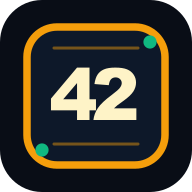
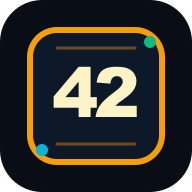
fix(theme): bind Galactic assets to portal shell AB#6167

diff --git a/app/layout.tsx b/app/layout.tsx
@@ -1,4 +1,5 @@
 import type { Metadata, Viewport } from "next";
+import config from "../project42.config.json";
 import "./globals.css";
 import { SiteFooter } from "./components/SiteFooter";
 import { SiteHeader } from "./components/SiteHeader";
@@ -6,6 +7,10 @@ import { ProgressProvider } from "./components/ProgressProvider";
 import { AuthProvider } from "./components/AuthProvider";
 import { ProfilePreferencesProvider } from "./components/ProfilePreferencesProvider";
 import { CanonicalOriginEnforcer } from "./components/CanonicalOriginEnforcer";
+
+const configuredTheme = config.theme || "06-galactic-guide";
+const configuredLayout = config.layout.defaultPreset || "standard";
+const configuredFaviconUrl = config.organization.faviconUrl;
 
 export const metadata: Metadata = {
   metadataBase: new URL("https://project-42.dev"),
@@ -20,21 +25,11 @@ export const metadata: Metadata = {
   icons: {
     icon: [
       {
-        url: "/brand/project-42-app-icon.svg",
+        url: configuredFaviconUrl,
         type: "image/svg+xml",
       },
-      {
-        url: "/favicon-32x32.png",
-        sizes: "32x32",
-        type: "image/png",
-      },
-      {
-        url: "/favicon-16x16.png",
-        sizes: "16x16",
-        type: "image/png",
-      },
     ],
-    shortcut: "/favicon.ico",
+    shortcut: configuredFaviconUrl,
     apple: [
       {
         url: "/apple-touch-icon.png",
@@ -83,16 +78,12 @@ export const metadata: Metadata = {
   },
 };
 
-import config from "../project42.config.json";
-
 export const viewport: Viewport = {
   colorScheme: "dark light",
   themeColor: "#090d16",
 };
 
 export default function RootLayout({ children }: Readonly<{ children: React.ReactNode }>) {
-  const configuredTheme = config?.theme || "06-galactic-guide";
-  const configuredLayout = config?.layout?.defaultPreset || "standard";
   return (
     <html lang="en" data-theme={configuredTheme} data-layout={configuredLayout} suppressHydrationWarning>
       <head>

diff --git a/app/globals.css b/app/globals.css
@@ -8664,11 +8664,24 @@ html[data-theme="06-galactic-guide"] .text-link {
 }
 
 html[data-theme="06-galactic-guide"] .path-card::after {
-  background: #10b981;
+  content: none;
 }
 
-html[data-theme="06-galactic-guide"] .path-card:nth-child(2)::after {
-  background: #f59e0b;
+/* The Learn shell predates declarative themes. Replace its default orbit art
+   with the selected Galactic bundle artwork without changing page content. */
+html[data-theme="06-galactic-guide"] .hero-map {
+  aspect-ratio: 16 / 9;
+  background: url("/themes/06-galactic-guide/hero.png") center / cover no-repeat;
+  border: 1px solid rgba(245, 158, 11, 0.45);
+  border-radius: 18px;
+  box-shadow: 0 24px 56px rgba(0, 0, 0, 0.38);
+  max-width: 640px;
+}
+
+html[data-theme="06-galactic-guide"] .hero-map::before,
+html[data-theme="06-galactic-guide"] .hero-map > * {
+  opacity: 0;
+  pointer-events: none;
 }
 
 html[data-theme="06-galactic-guide"] .card-index,
@@ -8898,6 +8911,16 @@ html[data-theme="06-galactic-guide"] .diagram-viewer-controls output {
 html[data-theme="06-galactic-guide"] .site-footer {
   background: #080c14 !important;
   border-top-color: rgba(245, 158, 11, 0.2) !important;
+}
+
+html[data-theme="06-galactic-guide"] .footer-grid > div:not(:first-child) {
+  gap: 0.2rem;
+}
+
+html[data-theme="06-galactic-guide"] .footer-grid a {
+  line-height: 1.35;
+  min-height: 0;
+  padding-block: 0.2rem;
 }
 
 @media (max-width: 840px) {

diff --git a/tests/browser/brand.spec.ts b/tests/browser/brand.spec.ts
@@ -16,7 +16,11 @@ test("publishes visible accessible branding and complete icon assets", async ({
   await expect(page.locator("svg.brand-mark")).toHaveCount(2);
   await expect(
     page.locator('link[rel="icon"][type="image/svg+xml"]'),
-  ).toHaveAttribute("href", "/brand/project-42-app-icon.svg");
+  ).toHaveAttribute("href", "/themes/06-galactic-guide/mark.svg");
+  await expect(page.locator('link[rel="shortcut icon"]')).toHaveAttribute(
+    "href",
+    "/themes/06-galactic-guide/mark.svg",
+  );
 
   const iconAssets = [
     ["/brand/project-42-mark.svg", "image/svg+xml"],
@@ -52,12 +56,12 @@ test("publishes visible accessible branding and complete icon assets", async ({
   expect(manifest.background_color).toBe("#090d16");
   expect(manifest.icons).toHaveLength(3);
 
-  const appIconResponse = await request.get("/brand/project-42-app-icon.svg");
+  const appIconResponse = await request.get("/themes/06-galactic-guide/mark.svg");
   const appIcon = await appIconResponse.text();
   expect(appIcon).toContain("#090d16");
   expect(appIcon).toContain("#f59e0b");
   expect(appIcon).toContain("#fef3c7");
-  expect(appIcon).not.toMatch(/#(?:c9f25f|63d7e4)/i);
+  expect(appIcon).toContain("Project 42 Galactic Guide concept mark");
 
   const accessibility = await new AxeBuilder({ page })
     .withTags(["wcag2a", "wcag2aa", "wcag21a", "wcag21aa", "wcag22aa"])

diff --git a/tests/browser/galactic-conformance.spec.ts b/tests/browser/galactic-conformance.spec.ts
@@ -53,6 +53,34 @@ test("routes Learn to the landing page and keeps the path catalog distinct", asy
   );
 });
 
+test("uses only Galactic artwork and compact shell treatments on Learn", async ({
+  page,
+}) => {
+  for (const viewport of [
+    { width: 1440, height: 1000 },
+    { width: 390, height: 844 },
+  ]) {
+    await page.setViewportSize(viewport);
+    await page.goto("/learn");
+
+    const hero = page.locator(".hero-map");
+    await expect(hero).toHaveCSS(
+      "background-image",
+      /\/themes\/06-galactic-guide\/hero\.png/,
+    );
+    await expect(hero.locator(":scope > *").first()).toHaveCSS("opacity", "0");
+
+    const decorations = await page.locator(".path-card").evaluateAll((cards) =>
+      cards.map((card) => getComputedStyle(card, "::after").content),
+    );
+    expect(decorations).toEqual(decorations.map(() => "none"));
+
+    const footerLink = page.locator(".footer-grid > div:nth-child(2) a").first();
+    await expect(footerLink).toHaveCSS("min-height", "0px");
+    expect(await footerLink.evaluate((link) => link.getBoundingClientRect().height)).toBeLessThan(32);
+  }
+});
+
 const protectedRouteFamilies = [
   "/profile",
   "/import-progress",

diff --git a/public/brand/README.md b/public/brand/README.md
@@ -21,13 +21,15 @@ Apache-2.0 with the application code.
 | `project-42-mark.svg` | Full-color transparent mark |
 | `project-42-mark-mono.svg` | One-color light-background treatment |
 | `project-42-mark-reversed.svg` | One-color dark-background treatment |
-| `project-42-app-icon.svg` | Master for favicon, bookmark, Apple, and web-app exports |
-| `project-42-maskable-icon.svg` | Full-bleed safe-zone master for maskable web-app export |
 | `project-42-wordmark.svg` | Horizontal mark and name |
 | `project-42-social.svg` | Editable social-preview master |
 | `asset-manifest.json` | Source and generated-file integrity record |
 
-Run `npm run brand:generate` after changing either raster master. CI runs
+The active theme's `organization.faviconUrl` in `project42.config.json` is the
+single source for favicon, bookmark, Apple, and web-app exports. For Galactic,
+that is `public/themes/06-galactic-guide/mark.svg`, the same mark published by
+the Theme Gallery. Run `npm run brand:generate` after changing the selected
+theme or its mark. CI runs
 `npm run brand:check` to verify source hashes, image dimensions, file integrity, and
 the multi-size ICO directory.
 
@@ -52,9 +54,10 @@ substantive SVG changes.
 Downstream operators may replace Project 42 branding without changing learning
 content:
 
-1. Replace the six SVG sources while preserving their filenames and view boxes.
-2. Update the accessible application name and social text in `app/layout.tsx`,
-   `app/manifest.ts`, and the shared header/footer.
+1. Add the theme mark and set `organization.logoUrl` and
+   `organization.faviconUrl` in `project42.config.json`.
+2. Update the accessible application name and social text in the declarative
+   configuration and shared metadata.
 3. Run `npm run brand:generate`.
 4. Run `npm run check` and verify the header, favicon, Apple icon, manifest icons,
    social preview, and forced-colors treatment.
